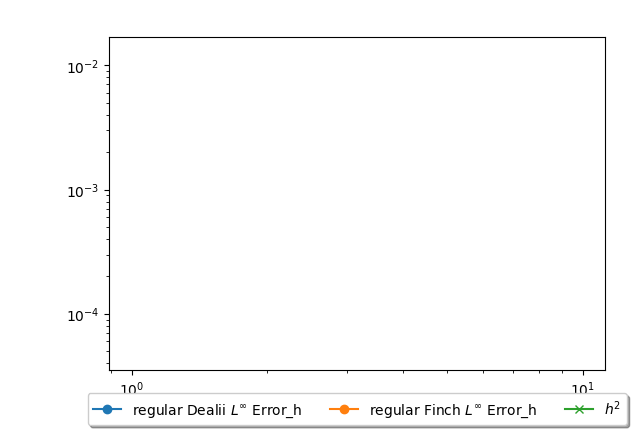
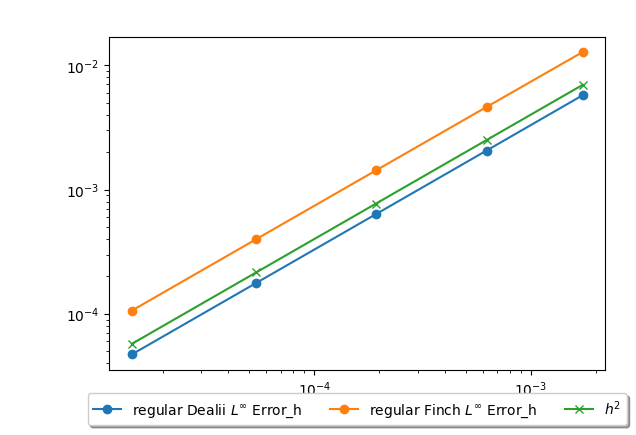
Code improvement and plot correction

diff --git a/src/processplot.py b/src/processplot.py
@@ -547,7 +547,7 @@ def getElementNodeIndices( gmshFileName, regexVal ):
 
 def get2DAreaFromNodes( coords ):
 
-    nnodes = len( coords[0] )
+    nnodes = len( coords )
 
     area = 0
 
@@ -722,30 +722,16 @@ def showFinchPlot( simPlotFolderName, regexVals ):
         allL2ErrorList.append( curL2ErrorList )
 
         labelName = regexVals[idx] + " $L^{\infty}$ Error_" + "2h"
-        axMaxErrorNumNodes.loglog( numNodeVals[:-1], curMaxErrorList[:-1], "-o", label = labelName )
-        axMaxErrorArea.loglog( areaVals[:-1], curMaxErrorList[:-1], "-o", label = labelName )
-
-        labelName = regexVals[idx] + " $L^{\infty}$ Error_" + "h"
-        axMaxErrorNumNodes.loglog( numNodeVals[:-1], curMaxErrorList[1:], "-o", label = labelName )
-        axMaxErrorArea.loglog( areaVals[:-1], curMaxErrorList[1:], "-o", label = labelName )
-
-        labelName = regexVals[idx] + " $L^{2}$ Error_" + "2h"
-        axL2ErrorNumNodes.loglog( numNodeVals[:-1], curL2ErrorList[:-1], "-o", label = labelName )
-        axL2ErrorArea.loglog( areaVals[:-1], curL2ErrorList[:-1], "-o", label = labelName )
-
-        labelName = regexVals[idx] + " $L^{2}$ Error_" + "h"
-        axL2ErrorNumNodes.loglog( numNodeVals[:-1], curL2ErrorList[1:], "-o", label = labelName )
-        axL2ErrorArea.loglog( areaVals[:-1], curL2ErrorList[1:], "-o", label = labelName )        
+        plotMaxAndL2Error( axMaxErrorNumNodes, axL2ErrorNumNodes, numNodeVals, curMaxErrorList, curL2ErrorList, regexVal )
+        plotMaxAndL2Error( axMaxErrorArea, axL2ErrorArea, areaVals, curMaxErrorList, curL2ErrorList, regexVal )      
 
     h2vals = dxvals**2
 
     axMaxErrorNumNodes.loglog( numNodeVals[:-1], h2vals[:-1], "-x", label = "$h^2$" )
-    axL2ErrorNumNodes.loglog( areaVals[:-1], h2vals[:-1], "-x", label = "$h^2$" )
+    axL2ErrorNumNodes.loglog( numNodeVals[:-1], h2vals[:-1], "-x", label = "$h^2$" )
 
-    axMaxErrorArea.loglog( numNodeVals[:-1], h2vals[:-1], "-x", label = "$h^2$" )
+    axMaxErrorArea.loglog( areaVals[:-1], h2vals[:-1], "-x", label = "$h^2$" )
     axL2ErrorArea.loglog( areaVals[:-1], h2vals[:-1], "-x", label = "$h^2$" )
-    # axMaxError.legend()
-    # axL2Error.legend()
 
     makePlotAdjustmentsAndSave( axMaxErrorNumNodes, figMaxErrorNumNodes, simPlotFolderName + "maxErrorNumNodes" + ".png" )
     makePlotAdjustmentsAndSave( axL2ErrorNumNodes, figL2ErrorNumNodes, simPlotFolderName + "l2ErrorNumNodes" + ".png" )
@@ -783,10 +769,10 @@ def plotMaxAndL2Error( axMaxErrorHandle, axL2ErrorHandle, xvals, maxError, l2Err
     axMaxErrorHandle.loglog( xvals[:-1], maxError[1:], "-o", label = labelName )
 
     labelName = regexVal + " $L^{2}$ Error_" + "2h"
-    axL2ErrorHandle.loglog( xvals, l2Error[:-1], "-o", label = labelName )
+    axL2ErrorHandle.loglog( xvals[:-1], l2Error[:-1], "-o", label = labelName )
 
     labelName = regexVal + " $L^{2}$ Error_" + "h"
-    axL2ErrorHandle.loglog( xvals, l2Error[1:], "-o", label = labelName )
+    axL2ErrorHandle.loglog( xvals[:-1], l2Error[1:], "-o", label = labelName )
 
 def showDealiiPlot( simPlotFolderName, regexVals ):
 
@@ -913,8 +899,8 @@ def showDealiiPlot( simPlotFolderName, regexVals ):
         allMaxErrorList.append( curMaxErrorList )
         allL2ErrorList.append( curL2ErrorList )
 
-        plotMaxAndL2Error( axMaxErrorNumNodes, axL2ErrorNumNodes, xvals, curMaxErrorList, curL2ErrorList, regexVal )
-        plotMaxAndL2Error( axMaxErrorArea, axL2ErrorArea, xvals, curMaxErrorList, curL2ErrorList, regexVal ) 
+        plotMaxAndL2Error( axMaxErrorNumNodes, axL2ErrorNumNodes, numNodeVals, curMaxErrorList, curL2ErrorList, regexVal )
+        plotMaxAndL2Error( axMaxErrorArea, axL2ErrorArea, areaVals, curMaxErrorList, curL2ErrorList, regexVal ) 
 
     h2vals = dxvals**2
 
@@ -1206,12 +1192,12 @@ if __name__ == "__main__":
     # regexVals = ["hanging"]
 
     simPlotRootFolderName = gmshImageFolderName + "PlotNumNodes_2pi/"
-    # meshPlotRootFolderName = gmshImageFolderName + "MeshPlots28_2pi/"
+    meshPlotRootFolderName = gmshImageFolderName + "MeshPlots28_2pi/"
 
     # showMeshes( meshPlotRootFolderName, regexVals )
 
-    # runSim( simPlotRootFolderName, gmshFileCmdNames, regexVals )
-    # createMeshVTU( meshPlotRootFolderName, regexVals )
+    runSim( simPlotRootFolderName, gmshFileCmdNames, regexVals )
+    createMeshVTU( meshPlotRootFolderName, regexVals )
     compareDealiiFinch( simPlotRootFolderName, regexVals )
 
     simPlotFolderName = simPlotRootFolderName + "Dealii/"
@@ -1223,8 +1209,4 @@ if __name__ == "__main__":
     # showParaviewPlot( simPlotFolderName, regexVals )
     # showplot( simPlotFolderName, regexVals )
     # compareParaview( simPlotFolderName, regexVals )
-
-    # fileval = "/home/gaurav/gmshAutoScripts/build/triangleMeshStructN=25.msh"
-
-    # getNumNodes( fileval )
 
